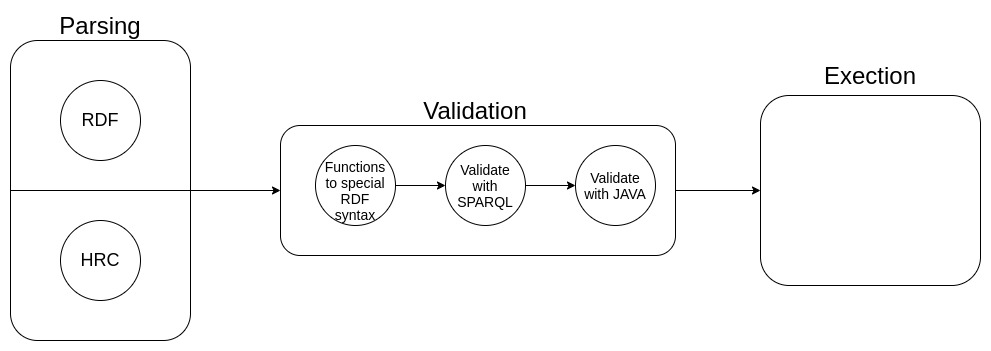
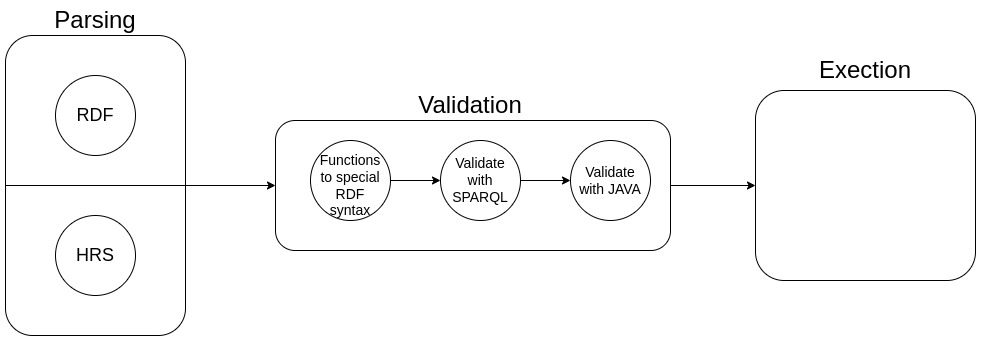
draft introduction implementation chapter

diff --git a/src/chapters/implementation.tex b/src/chapters/implementation.tex
@@ -1,5 +1,19 @@
 
 \chapter{Implementation}
+In this chapter, we will discuss the implementation of Frog. Most of the chapter will discuss how we have implemented Frog in isolation, while the last section, section X, will describe the changes performed in OTTR to integrate Frog. Lutra is the name of the implementation of OTTR(Lutra can be found on the following link) and is written in Java. Furthermore, Frog will be an integrated part of Lutra. Consequently, Frog will likewise be written in Java.
+
+\para
+Figure X illustrates the basic program flow of Frog as an isolated program. In short, the implementation will start with parsing the function either in the RDF syntax or in the Human readable syntax into a frog function java objects. The parsing of the syntaxes is described in section X. Secondly, Frog will validate the functions in the function library. Validating the function is a three-step process: transforming the function into a special RDF syntax and then performing validation with SPARQL on the first and second validation phase before proceeding to validate the third validating phase with a Java implementation. A furrow discussion on the implementation of the validation step is found in section Y. Lastly, Frog executes the function calls, as discussed in section Z. 
+
+\begin{figure}
+  \centering
+  \includegraphics[scale=0.45]{programFlowDesign.jpg}
+  \caption{The basic flow of the Frog in isolation}
+  \label{fig:basic_program_flow}
+\end{figure}
+\para
+All three steps depend on the previous step, implying that the validation step requires the parsing to be complete without causing an error message. The execution step will only proceed if the validation step is completed without error messages.
+
 
 \section{Parser}
 \label{parser}
@@ -8,7 +22,7 @@
 \subsection{RDF Syntex}
 \label{implRDF}
 
-\section{Type Checking}
+\section{Validation}
 
 \section{Evaluation}
 \label{implementation_evaluation}

diff --git a/src/chapters/design.tex b/src/chapters/design.tex
@@ -9,14 +9,6 @@ In short, Frog will be a purely typed functional programming language, resulting
 The following prefixes will be utlised in the examples of this chapter:
 \lstinputlisting[language=turtle, firstnumber = 1]{examples/design/prefixesDesign.ttl}
 
-
-\begin{figure}[h]
-    \centering
-    \includegraphics[scale=0.45]{programFlowDesign.jpg}
-    \caption{The basic flow of the program}
-    \label{fig:basic_program_flow}
-\end{figure}
-
 \section{Overview}
 
 \subsection{Concepts}
@@ -346,7 +338,8 @@ Consequently, we have divided the validation into three phases. Firstly, validat
     \label{fig:LC-explenations}
 \end{figure}
 
-\subsection{Validation warrnings}
+\subsection{Validation warnings}
+Messages in OTTR has four different severity degrees: info, warning, error and fatal. The validation points previously discussed would result in messages with the severity degree error. A result of a message with the severity degree error is that OTTR does not expand the graph. However, on the other hand, the severity degree warning will allow OTTR to expand. Frog will utilise the warning messages to state that the functions state something unnecessary, such as a parameter or a generic parameter defined in the function head, which the function body does not utilise.  
 
 
 \section{Evaluation}
